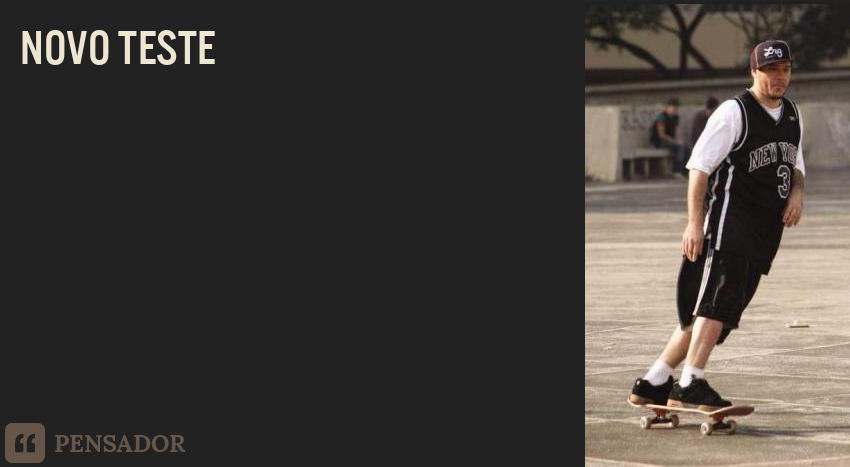
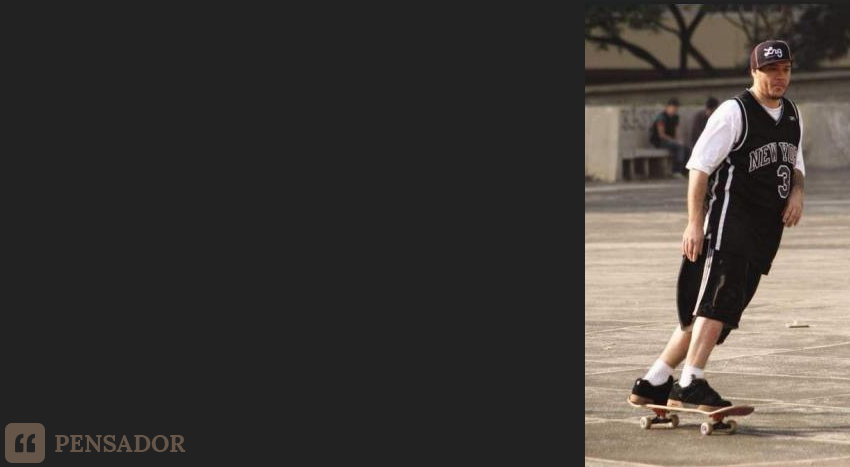
wip

Changed region(s): [[0.0, 0.06, 0.2447, 0.1499]]

diff --git a/myclub_website/events/models.py b/myclub_website/events/models.py
@@ -5,15 +5,12 @@ from PIL import Image, ImageFont, ImageDraw
 from textwrap import wrap
 
 class Event(models.Model):
-    description = models.TextField()
-    def __init__(self, description):
-        self._description = description
+    description = str(models.TextField())
 
     def __str__(self):
-        return self._description
+        return self.description
 
-    def save_image(self):
-        description = str(self._description)
+    def save_image():
         #description = "No entanto, não podemos esquecer que a revolução dos costumes promove a alavancagem dos conhecimentos estratégicos para atingir a excelência."
         new_description = ""
         for i in wrap(description, width=25):

diff --git a/myclub_website/events/forms.py b/myclub_website/events/forms.py
@@ -10,5 +10,4 @@ class EventForm(ModelForm):
         widgets = {
             'description': forms.Textarea(attrs={'class':'form-control', 'placeholder':'Enter the quotes here','rows':'1'})
         }
-        teste = Event('novo teste')
-        model.save_image(teste)
+        model.save_image()
